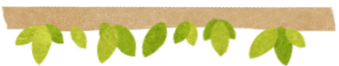
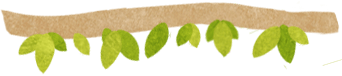
Edits design of game. Adds images.

diff --git a/index.html b/index.html
@@ -11,12 +11,19 @@
 <body>
 
 <header class="header">
-  <h1>Mixit game</h1>
+  <h1 class="main-headline">
+    <div class="firts-word">
+      <span class="orange">Mixit</span>&nbsp;
+    </div>
+    <div class="second-word">
+      <span class="purple">H</span>
+      <span class="blue">r</span>
+      <span class="orange">a</span>
+    </div>
+  </h1>
 </header>
 
 <main id="game-container" class="main">
-  <div class="game-bg"></div>
-
   <div class="game-info">
     <div class="score-wrapper">
       <h2>Score: <span class="score">0</span></h2>
@@ -89,7 +96,26 @@
 
 <div id="message-banner" class="banner active">
   <section class="banner-content">
-    <h1>Start game</h1>
+    <h1 class="main-headline">
+      <div class="firts-word">
+        <span class="orange">Mixit</span>&nbsp;
+      </div>
+      <div class="second-word">
+        <span class="purple">H</span>
+        <span class="blue">r</span>
+        <span class="orange">a</span>
+      </div>
+    </h1>
+    <h1 class="main-headline game-over">
+      <div class="firts-word">
+        <span class="orange">Konec</span>&nbsp;
+      </div>
+      <div class="second-word">
+        <span class="purple">H</span>
+        <span class="blue">r</span>
+        <span class="orange">y</span>
+      </div>
+    </h1>
     <div class="buttons">
       <button id="start-btn" class="btn">Start</button>
       <button id="stop-btn" class="btn">Stop</button>
@@ -100,11 +126,18 @@
 
 <div id="controls-banner" class="banner">
   <header class="banner-header">
-    <h1>Controls</h1>
+    <h1 class="main-headline">
+      <div class="firts-word">
+        <span class="orange">Ovládání</span>&nbsp;
+      </div>
+      <div class="second-word">
+        <span class="purple">H</span>
+        <span class="blue">r</span>
+        <span class="orange">y</span>
+      </div>
+    </h1>
   </header>
   <main class="main">
-    <div class="game-bg"></div>
-
     <div class="buttons">
       <button id="save-setting-btn" class="btn">Save</button>
       <button id="change-setting-btn" class="btn active">Change</button>

diff --git a/scss/components/_banner.scss b/scss/components/_banner.scss
@@ -11,11 +11,13 @@
   &.active { bottom: 0; }
 
   .banner-content {
-    width: 80%;
+    width: 100%;
     height: 100%;
     margin: 0 auto;
     padding: 5em 0;
-    background: $banner-bg;
+    background: $game-bg url("../img/init-bg.jpg") no-repeat center bottom;
+    //background: $game-info-color;
+    background-size: 100%;
     border: 4px solid $main-color;
     border-radius: .3em;
   }
@@ -28,17 +30,17 @@
 
   .buttons {
     text-align: center;
-    margin-top: 5em;
   }
 
   .btn {
     display: block;
     color: $main-color;
-    background: rgba(#000, .6);
+    background: $banner-btn-bg;
     margin: 0 auto .25em;
     padding: .3em 1em .4em;
-    border: .04em solid $main-color;
-    border-radius: .15em;
+    border: .02em solid $main-color;
+    border-radius: .3em;
+    font-weight: 700;
     text-align: center;
     text-transform: uppercase;
     letter-spacing: .04em;
@@ -61,6 +63,18 @@
   #start-btn { font-size: 5em; }
   #controls-btn { font-size: 3em; }
   #stop-btn { display: none; }
+}
+
+#message-banner {
+  &.game-over {
+    .main-headline {
+      display: none;
+
+      &.game-over {
+        display: flex;
+      }
+    }
+  }
 }
 
 #controls-banner {
@@ -104,7 +118,7 @@
       font-size: 2.5em;
       top: 0;
       margin: 0;
-      border-color: #000;
+      //border-color: #000;
       z-index: 15;
     }
 
@@ -127,9 +141,13 @@
     justify-content: center;
     height: 15em;
 
-    h1 {
+    background: rgba($banner-btn-bg, .75) url("../img/page-bg.jpg");
+    background-size: 60%;
+
+    .main-headline {
+      font-size: 5em;
       width: 100%;
-      line-height: 2em;
+      margin-top: .8em;
     }
   }
 

diff --git a/scss/_main.scss b/scss/_main.scss
@@ -3,7 +3,8 @@
   width: 100%;
   min-height: 35em;
   margin: 0 auto;
-  background: $game-bg;
+  background: $game-bg url("../img/game-bg.jpg") bottom center no-repeat;
+  background-size: cover;
   border: 2px solid #000;
   border-radius: .3em;
   //cursor: none;
@@ -12,14 +13,14 @@
     position: absolute;
   }
 
-  .game-bg {
-    width: 100%;
-    height: 100%;
-    top: 0;
-    left: 0;
-    background: url("../img/game-bg.png") bottom center no-repeat;
-    background-size: cover;
-  }
+  //.game-bg {
+  //  width: 100%;
+  //  height: 100%;
+  //  top: 0;
+  //  left: 0;
+  //  background: ;
+  //  //background: $game-info-color;
+  //}
 
   @import "components/belts";
   @import "components/crack";

diff --git a/index+phone.html b/index+phone.html
@@ -62,7 +62,16 @@
 
 <div id="message-banner" class="banner active">
   <section class="banner-content">
-    <h1>Start game</h1>
+    <h1 class="main-headline">
+      <div class="firts-word">
+        <span class="orange">Mixit</span>&nbsp;
+      </div>
+      <div class="second-word">
+        <span class="purple">H</span>
+        <span class="blue">r</span>
+        <span class="orange">a</span>
+      </div>
+    </h1>
     <div class="buttons">
       <button id="start-btn" class="btn">Start</button>
       <button id="stop-btn" class="btn">Stop</button>

diff --git a/scss/base.scss b/scss/base.scss
@@ -13,9 +13,10 @@ body {
   font-size: 100%;
   font-family: $main-font;
   font-weight: 400;
-  max-width: 75%;
-  background: $main-bg url("../img/page-bg.svg");
-  background-size: 10%;
+  max-width: 80%;
+  background: $main-bg url("../img/page-bg.jpg") no-repeat center top;
+  //background: $game-info-color;
+  background-size: 100%;
   margin: 0 auto;
 }
 
@@ -34,4 +35,5 @@ a, button {
 @import "main";
 @import "components/banner";
 @import "components/high-score";
+@import "components/main-headline";
 @import "components/phone";

diff --git a/scss/_variables.scss b/scss/_variables.scss
@@ -58,11 +58,22 @@ $egg-tilt-6: 470deg;
 
 // START: colors variables
 $main-color: #eee;
-$main-bg: #eecfa1;
-$game-bg: #a7deed;
+$main-bg: #ffe9bf;
+$game-bg: #B1E1EF;
 $red-color: #BA3523;
-$banner-bg: #191919;
+$game-info-color: #512d15;
+
+// moving button
 $moving-btn-bg: #ccc;
 $moving-btn-click-bg: #134597;
 $moving-btn-border-color: #777;
+
+// main headline
+$headline-orange: #EF6530;
+$headline-purple: #D24BA1;
+$headline-blue: #49BBE6;
+
+// banner
+$banner-bg: #191919;
+$banner-btn-bg: #F6AF32;
 // END: colors variables

diff --git a/js/classes/menu.js b/js/classes/menu.js
@@ -76,8 +76,8 @@ export default class Menu {
 
   initGameOverEvent() {
     document.addEventListener('gameover', () => {
-      this.setStartBannerText('Game Over');
-      this.startBannerDomElem.classList.add('active');
+      // this.setStartBannerText('Game Over');
+      this.startBannerDomElem.classList = 'banner active game-over';
       this.game.getPlayer().reset();
       this.setButtonText('start-btn', 'New game');
       this.game = null;

diff --git a/scss/components/_main-headline.scss b/scss/components/_main-headline.scss
@@ -1,0 +1,19 @@
+.main-headline {
+  display: flex;
+  flex-direction: row;
+  justify-content: center;
+  text-transform: uppercase;
+
+  &.game-over { display: none; }
+
+  > * {
+    display: flex;
+    flex-direction: row;
+  }
+
+  span {
+    &.blue { color: $headline-blue; }
+    &.orange { color: $headline-orange; }
+    &.purple { color: $headline-purple; }
+  }
+}

diff --git a/js/classes/game.js b/js/classes/game.js
@@ -130,7 +130,8 @@ export default class Game {
       this.setScore();
       this.generateItems(1);
 
-      if(this.intervalTime <= 0 || this.lives == 0) {
+      if(this.intervalTime <= 0 || this.lives == 0)
+      {
         this.stopGame();
         this.clearItems();
         this.setPlayerPosition(5);

diff --git a/scss/components/_game-info.scss b/scss/components/_game-info.scss
@@ -12,6 +12,7 @@
 
   h2 {
     margin: 0 .5em;
+    color: $game-info-color;
     font-weight: 400;
   }
 }
@@ -26,7 +27,7 @@
     height: 1.2em;
     margin-right: .5em;
     margin-bottom: -.2em;
-    background: #000;
+    background: $game-info-color;
     border-radius: .2em;
 
     &:last-child {

diff --git a/scss/components/_high-score.scss b/scss/components/_high-score.scss
@@ -1,8 +1,8 @@
 .high-score {
   display: none;
-  color: lighten(#111, 20%);
+  color: $game-info-color;
   font-weight: 400;
 
-  #high-score { color: #111; }
+  #high-score { color: darken($game-info-color, 20%); }
   &.visible { display: block; }
 }

diff --git a/scss/components/_key-setter.scss b/scss/components/_key-setter.scss
@@ -4,6 +4,7 @@
   align-items: center;
   height: 2em;
   margin: 0;
+  font-weight: 400;
 
   &.position-1 {
     top: 4em;
@@ -32,6 +33,10 @@
 
   span {
     font-size: 90%;
+  }
+
+  .ket, .key-input {
+    font-weight: 400;
   }
 
   .key {
